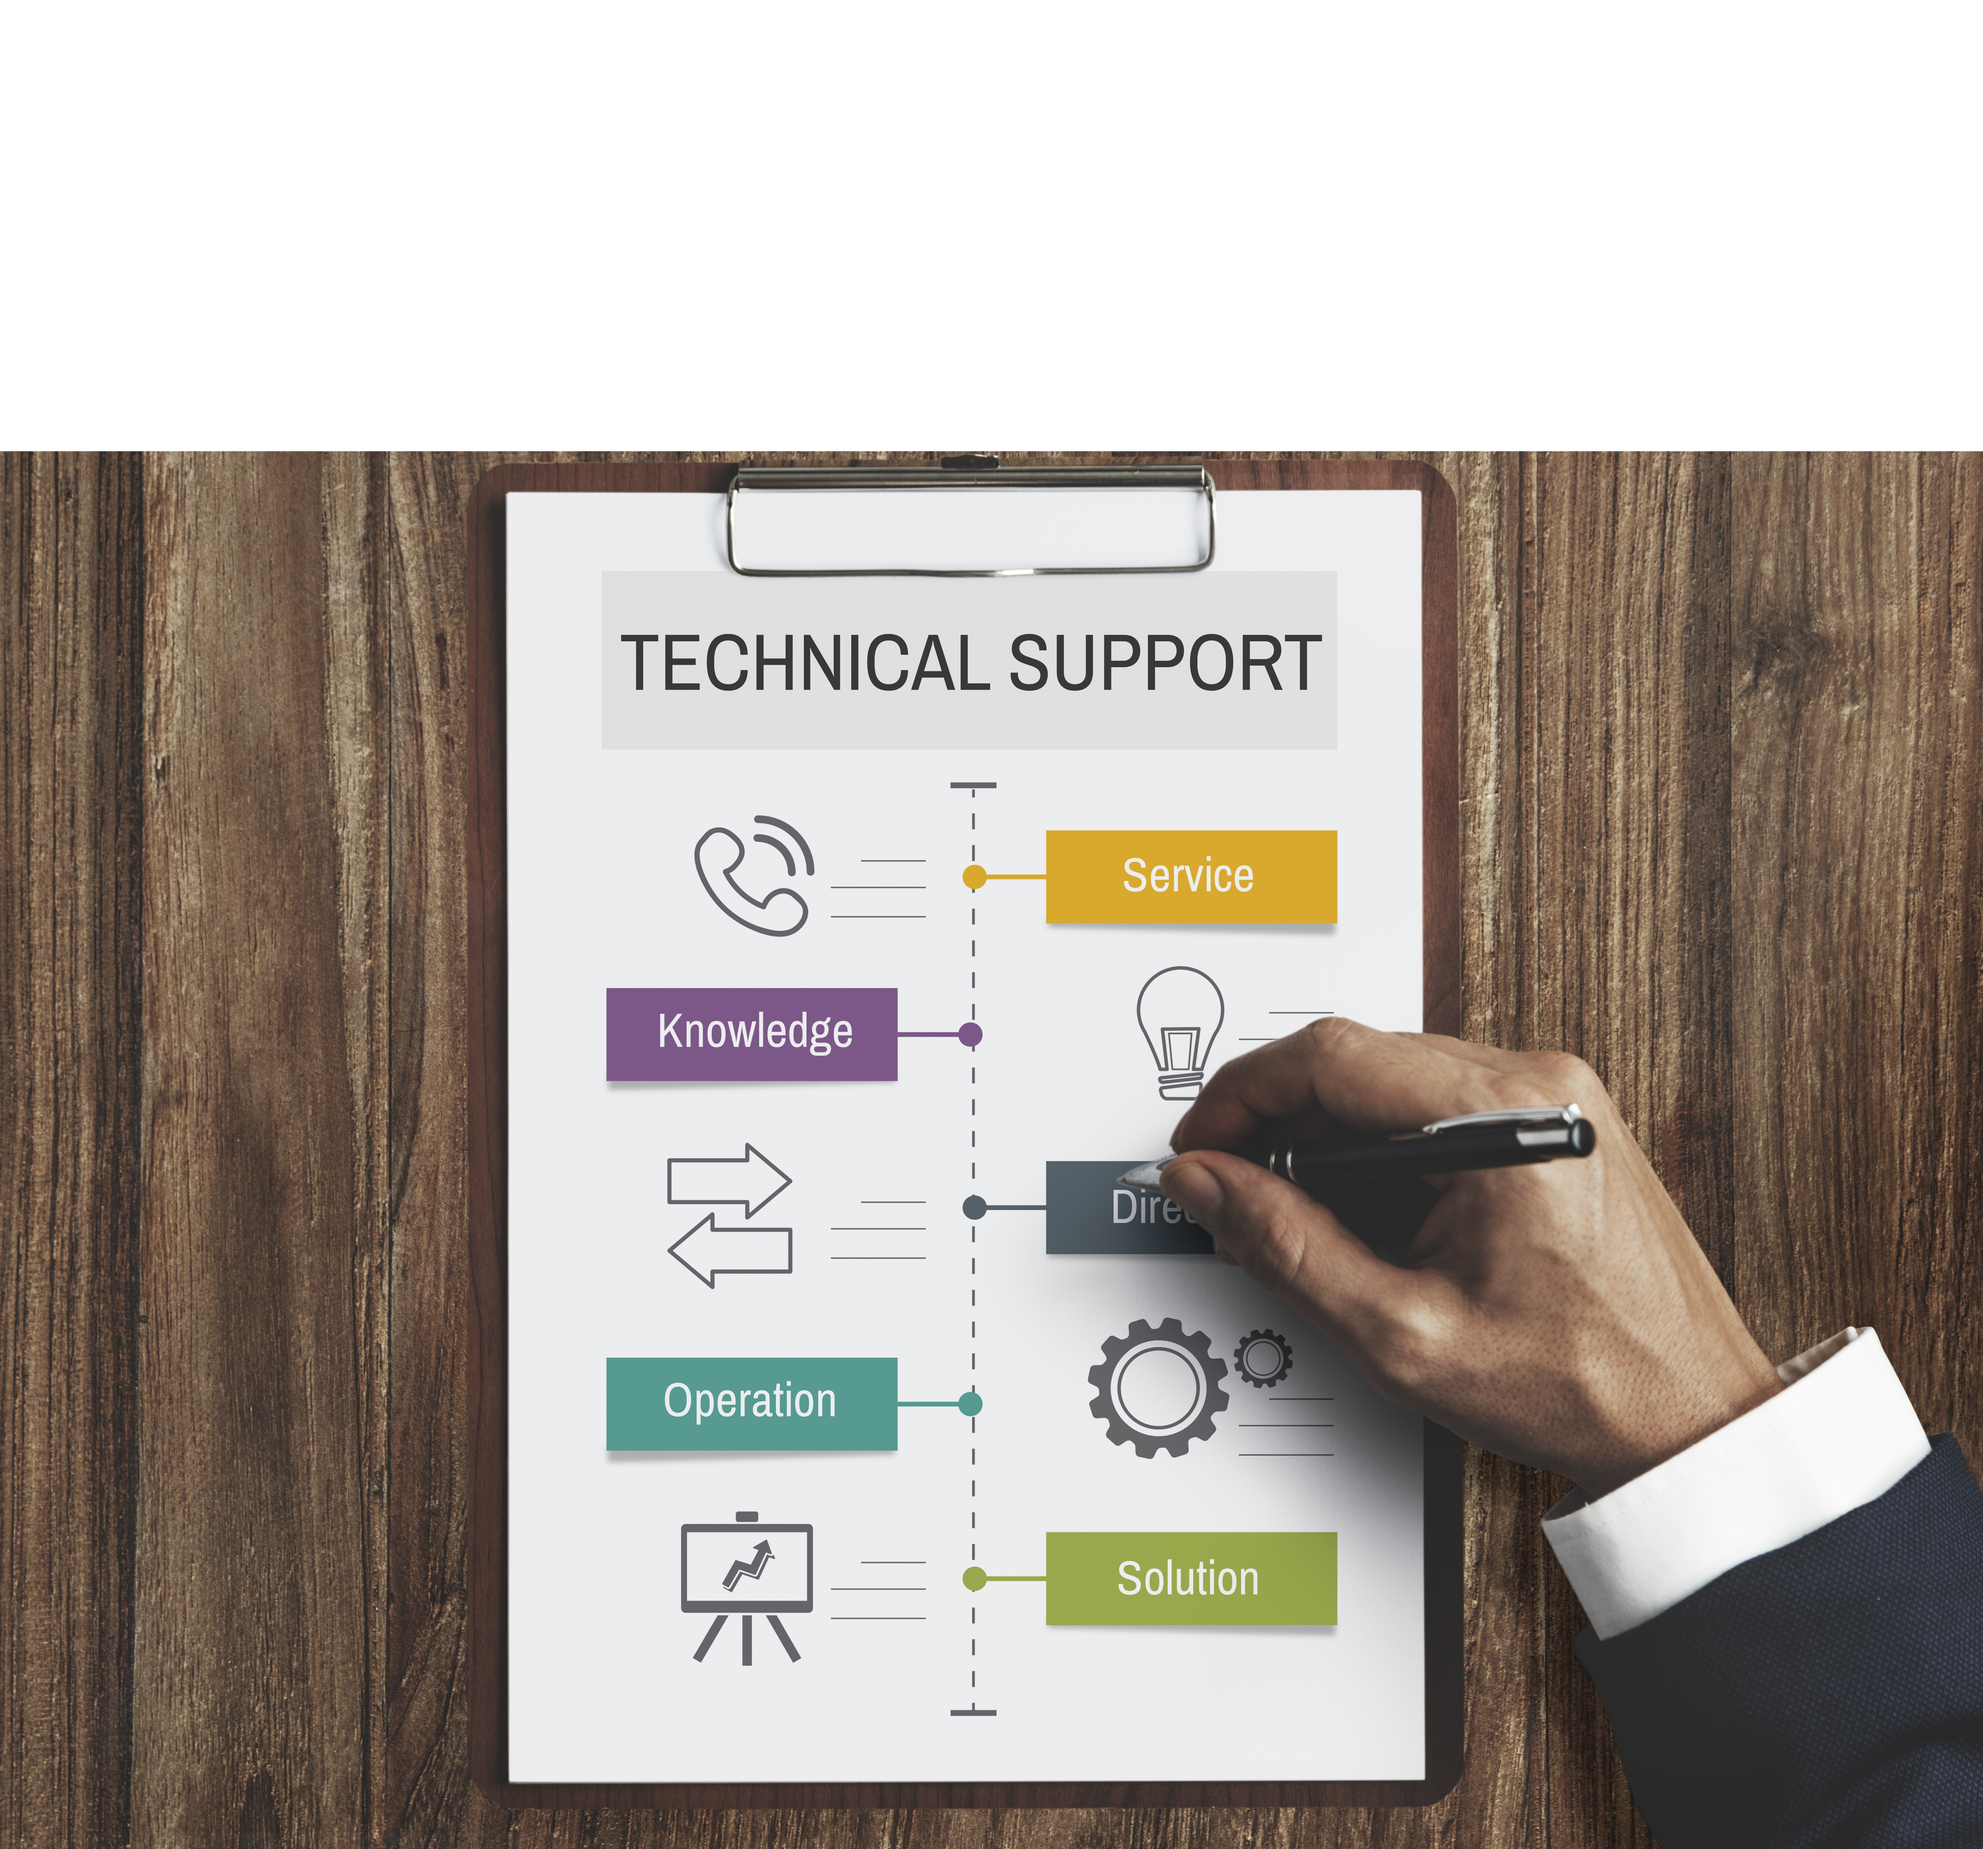
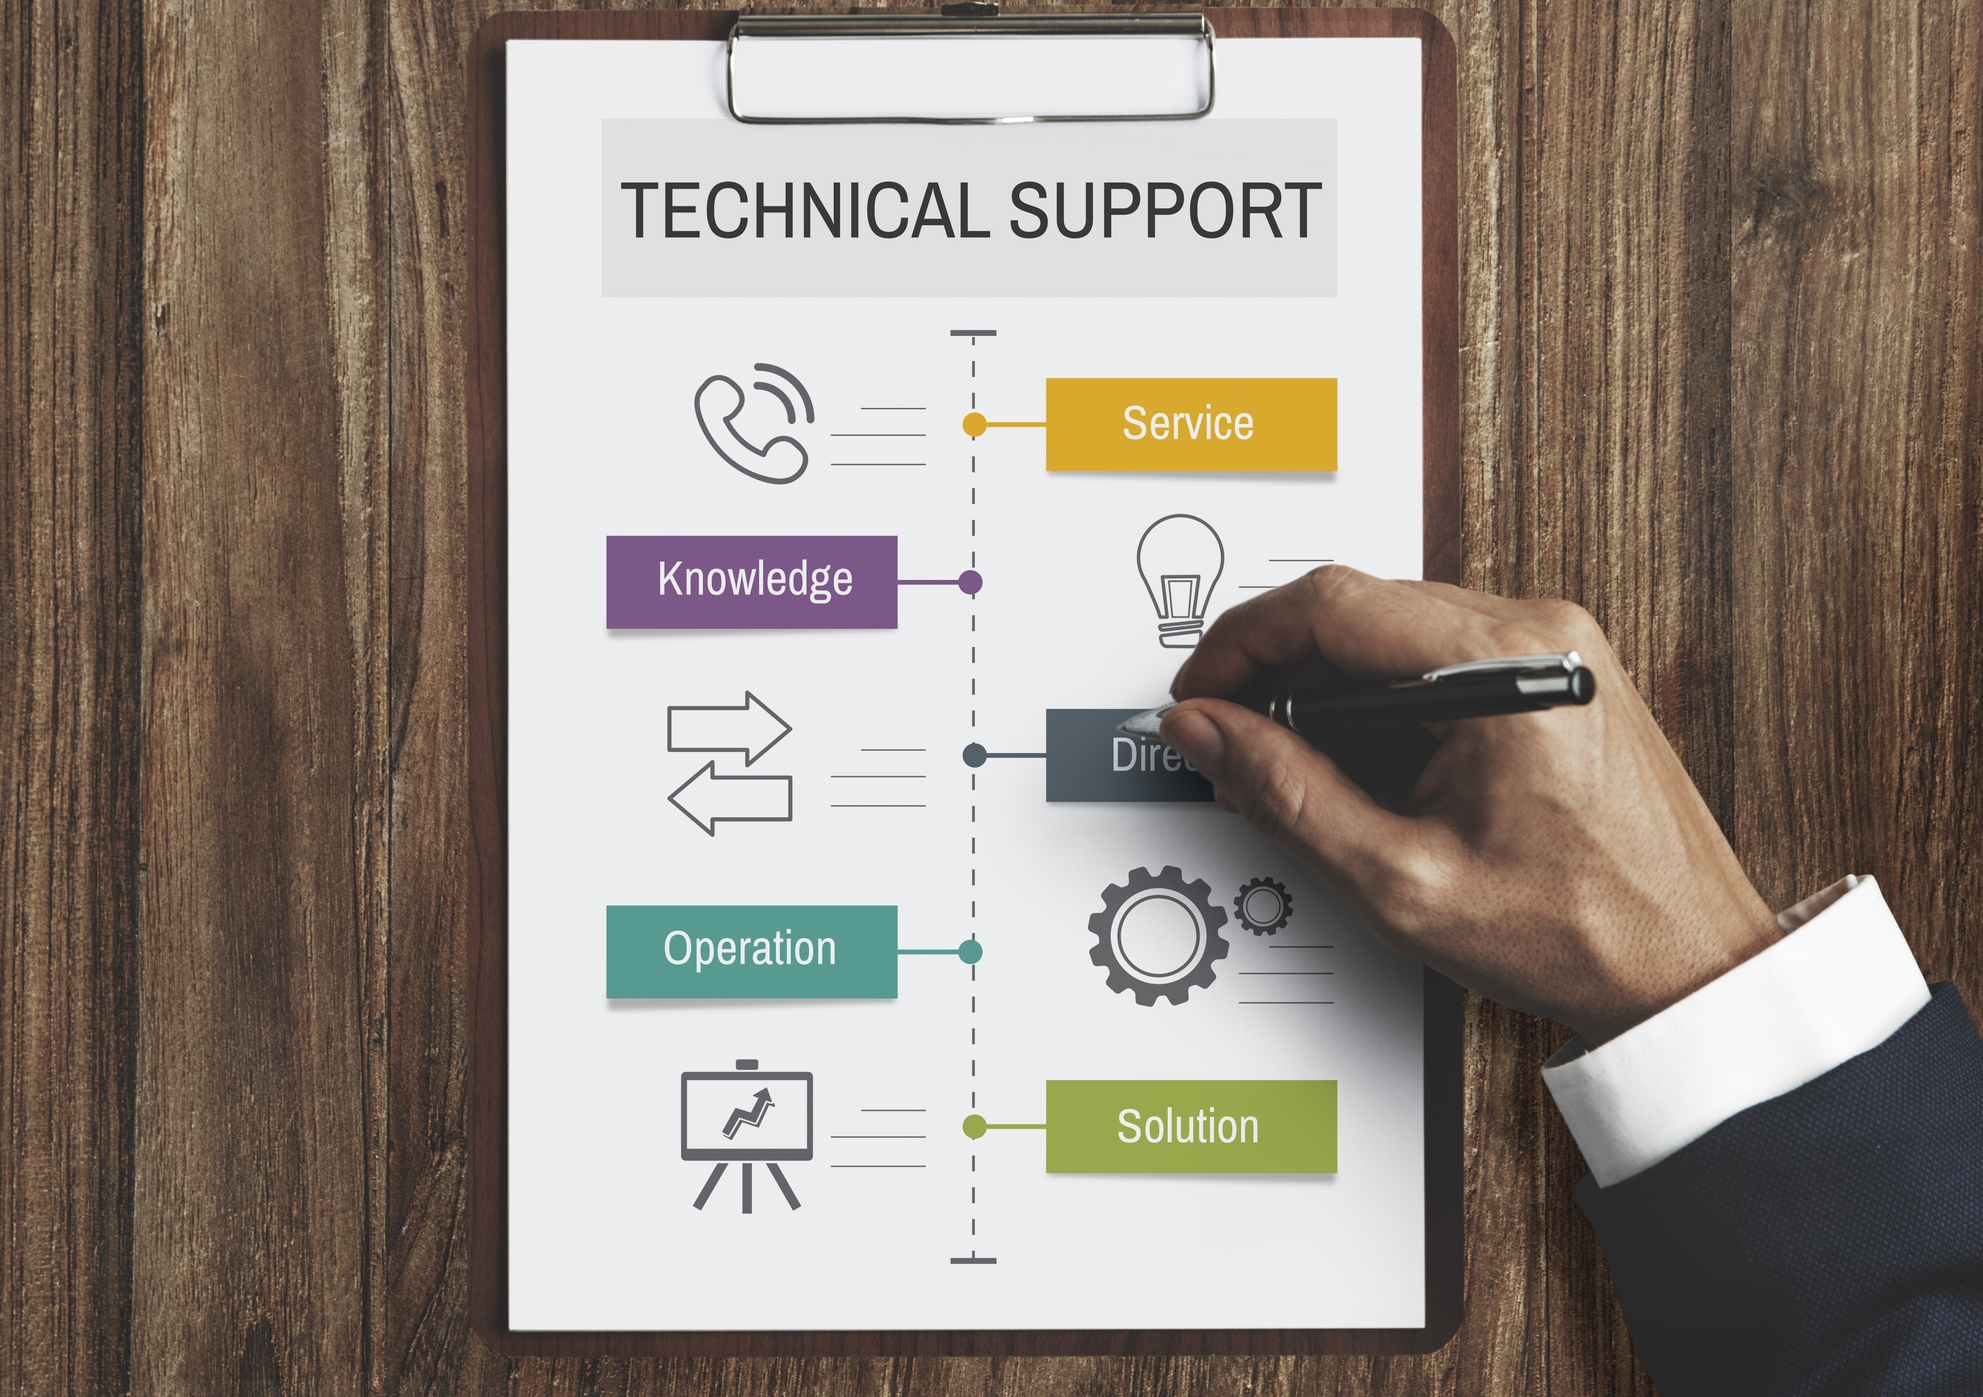
Index: Fixed images that had white at the top.

diff --git a/styles.css b/styles.css
@@ -462,6 +462,7 @@ h1, h2, h3 {
 .skill-image {
   height: 240px;
   border-radius: 18px 18px 0 0;
+  background-color: transparent;
   background-size: cover;
   background-position: center;
   background-repeat: no-repeat;
@@ -888,14 +889,17 @@ h1, h2, h3 {
 
 .skill-image-inst {
   background-image: url("images/lastest-version-fresh-updates-application-updates-concept.jpg");
+  background-position: center top;
 }
 
 .skill-image-support {
   background-image: url("images/contact-us-help-business-consulting-support.jpg");
+  background-position: center top;
 }
 
 .skill-image-process {
   background-image: url("images/action-process-directions-performance-verification-icon.jpg");
+  background-position: center top;
 }
 
 .skill-image-int {
